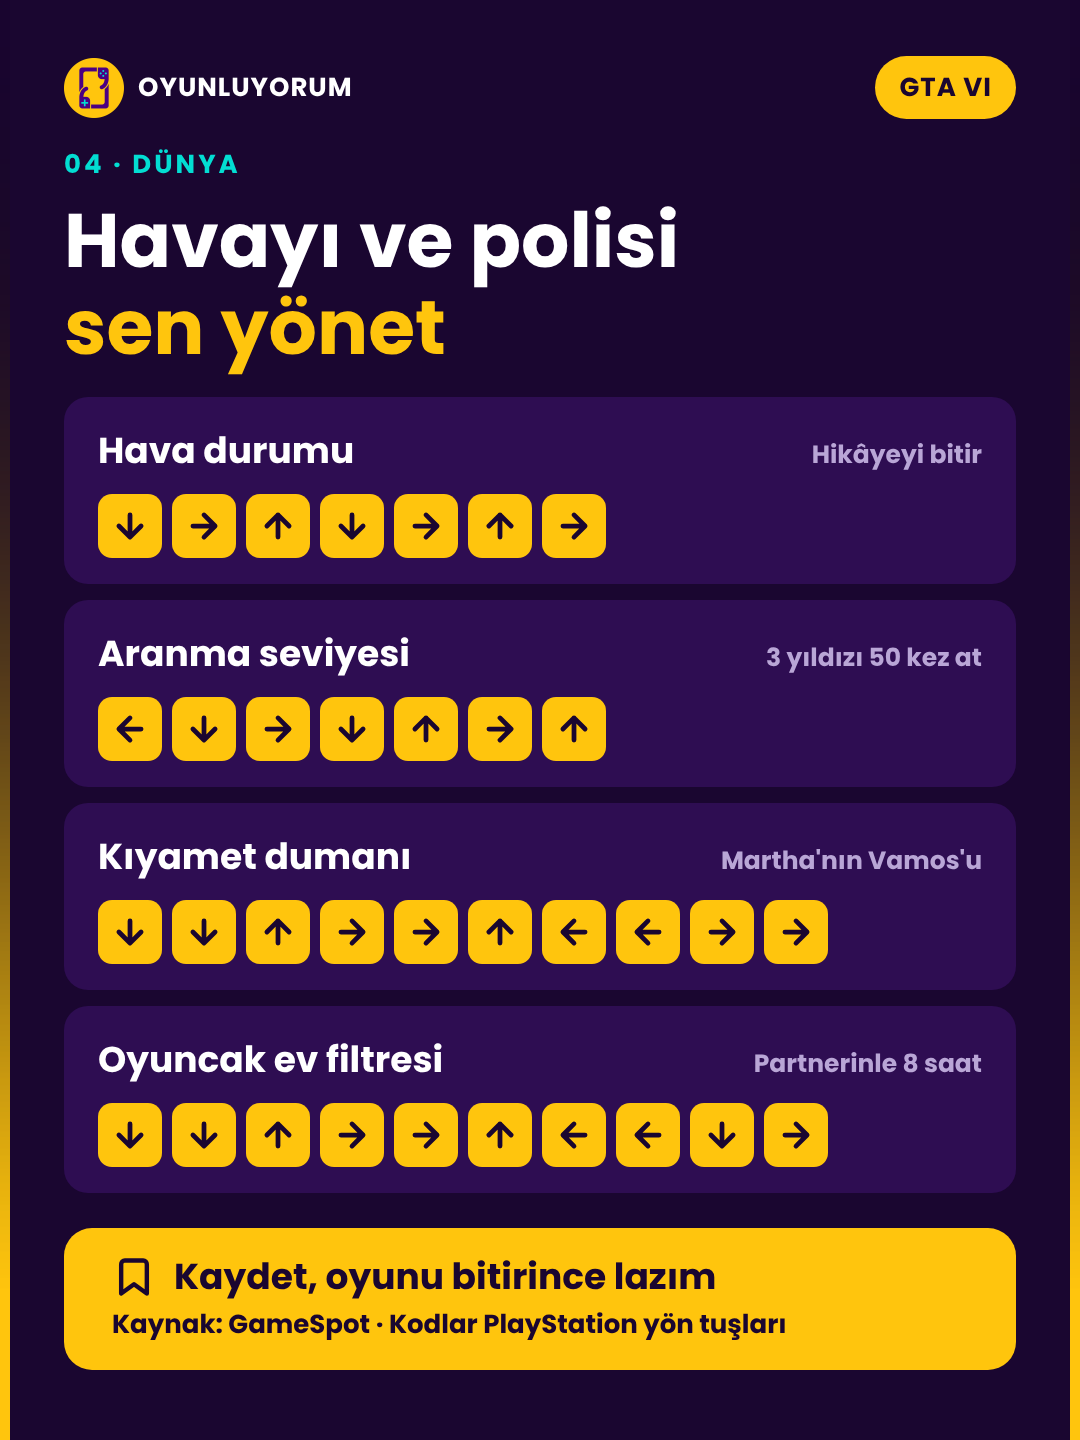
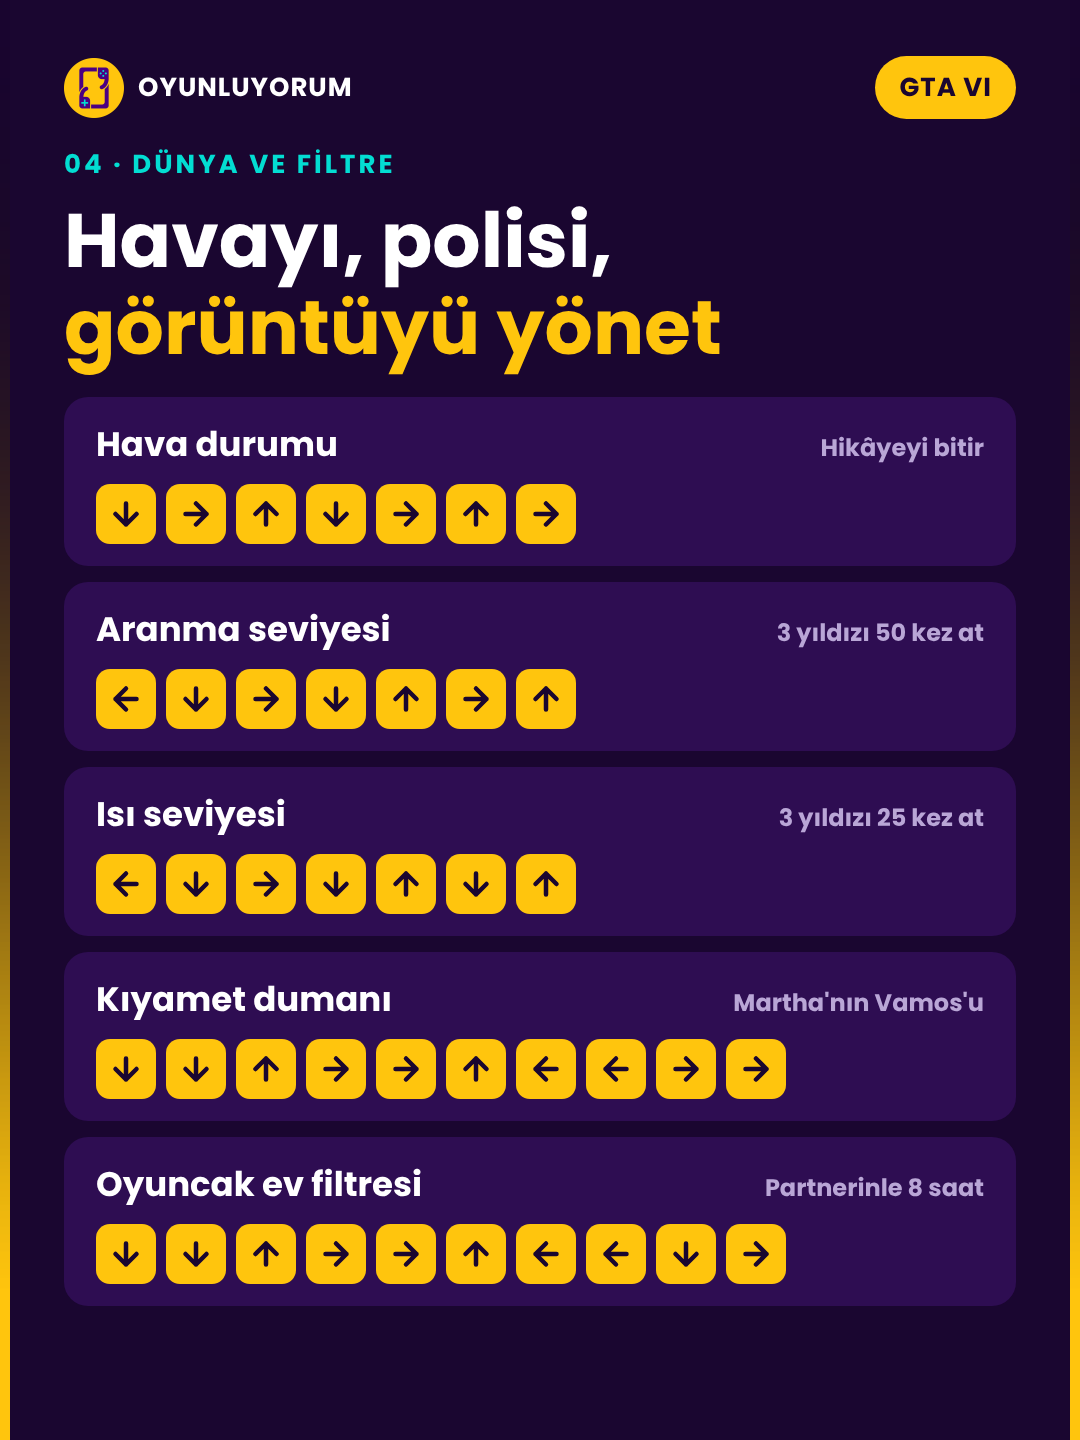
Hileler karuseli 8 slayta genişletildi
Claude-Session: https://claude.ai/code/session_01Cfy9VgEXWVL5ta7MT2PpLs

diff --git a/posts/2026-11-20-gta6-hileler/aciklama.md b/posts/2026-11-20-gta6-hileler/aciklama.md
@@ -1,9 +1,9 @@
 # GTA 6 hileleri ve kodları – Instagram karuseli
 
 Durum: hazır, henüz paylaşılmadı
-Boyut: 1080×1440, 6 slayt
+Boyut: 1080×1440, 8 slayt
 Kaynak: https://www.gamespot.com/articles/all-gta-6-cheats-and-how-to-unlock-them/
-Not: GameSpot'ta 60'tan fazla hile var, kodu yayınlanmış olanların en işe yarar 16'sı seçildi.
+Not: Kodu yayınlanan 18 hilenin 17si kod kartlarıyla (renkli tüplü TV filtresi yer olmadığı için çıkarıldı); kodu henüz açıklanmayan en iyi 12 hile açma şartlarıyla.
 
 ## Açıklama
 
